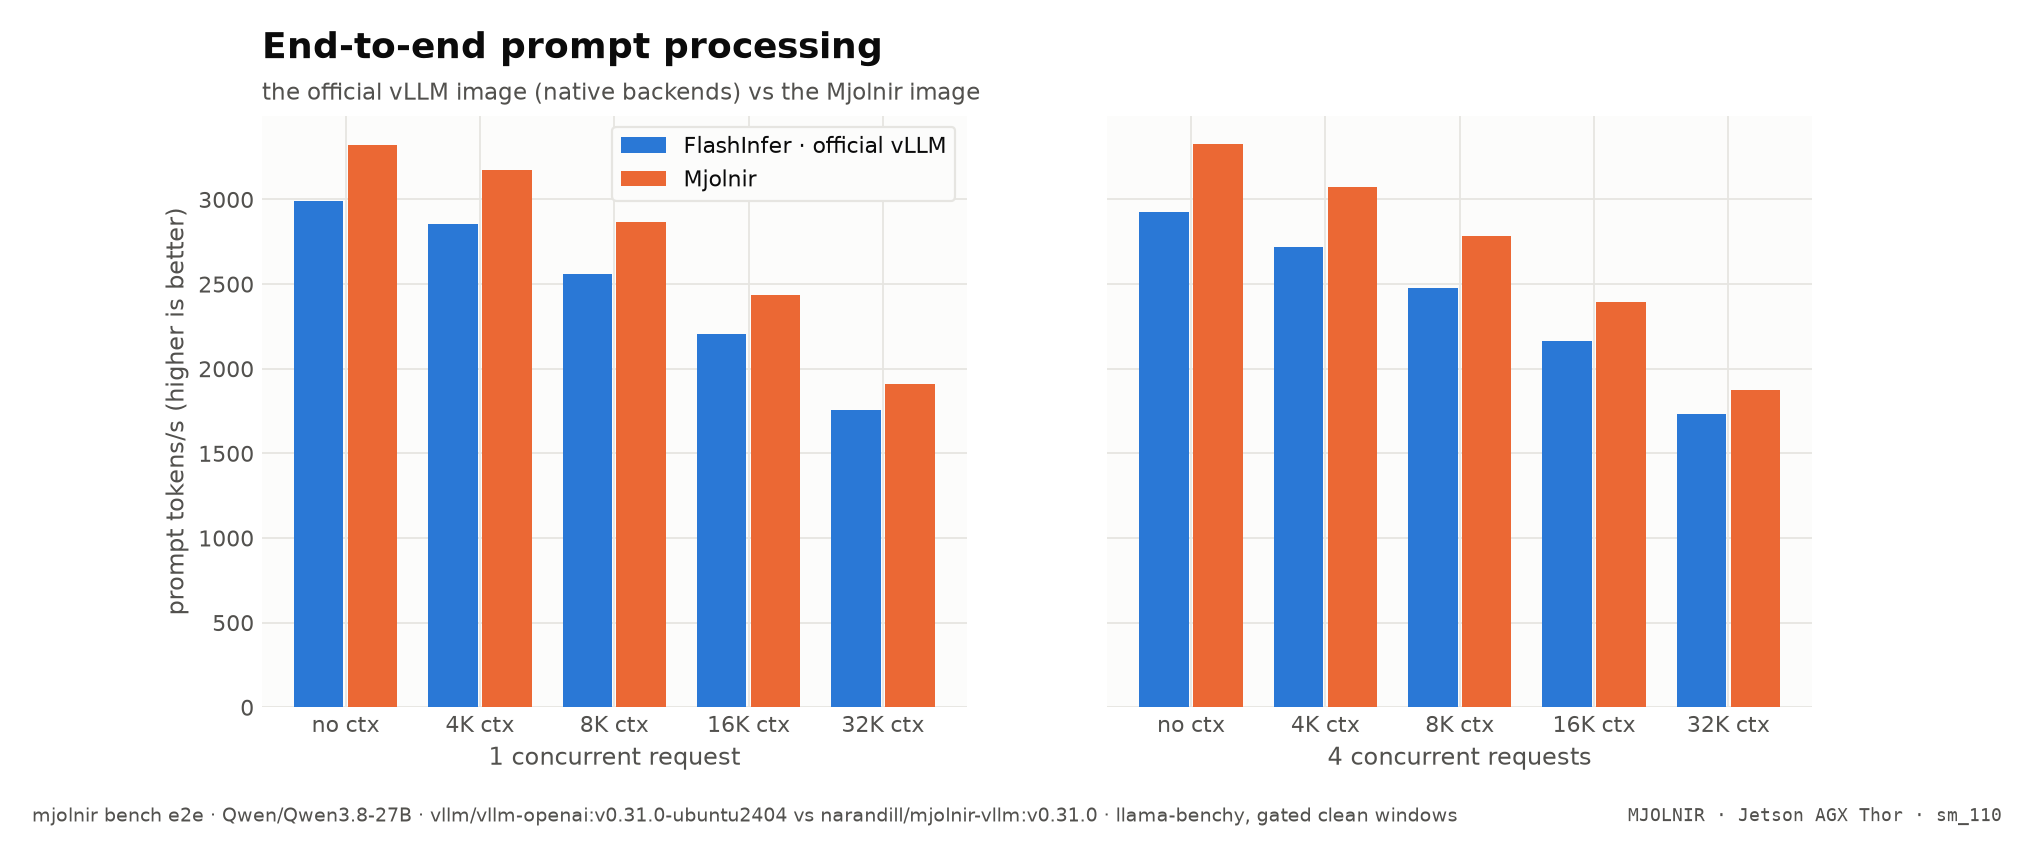
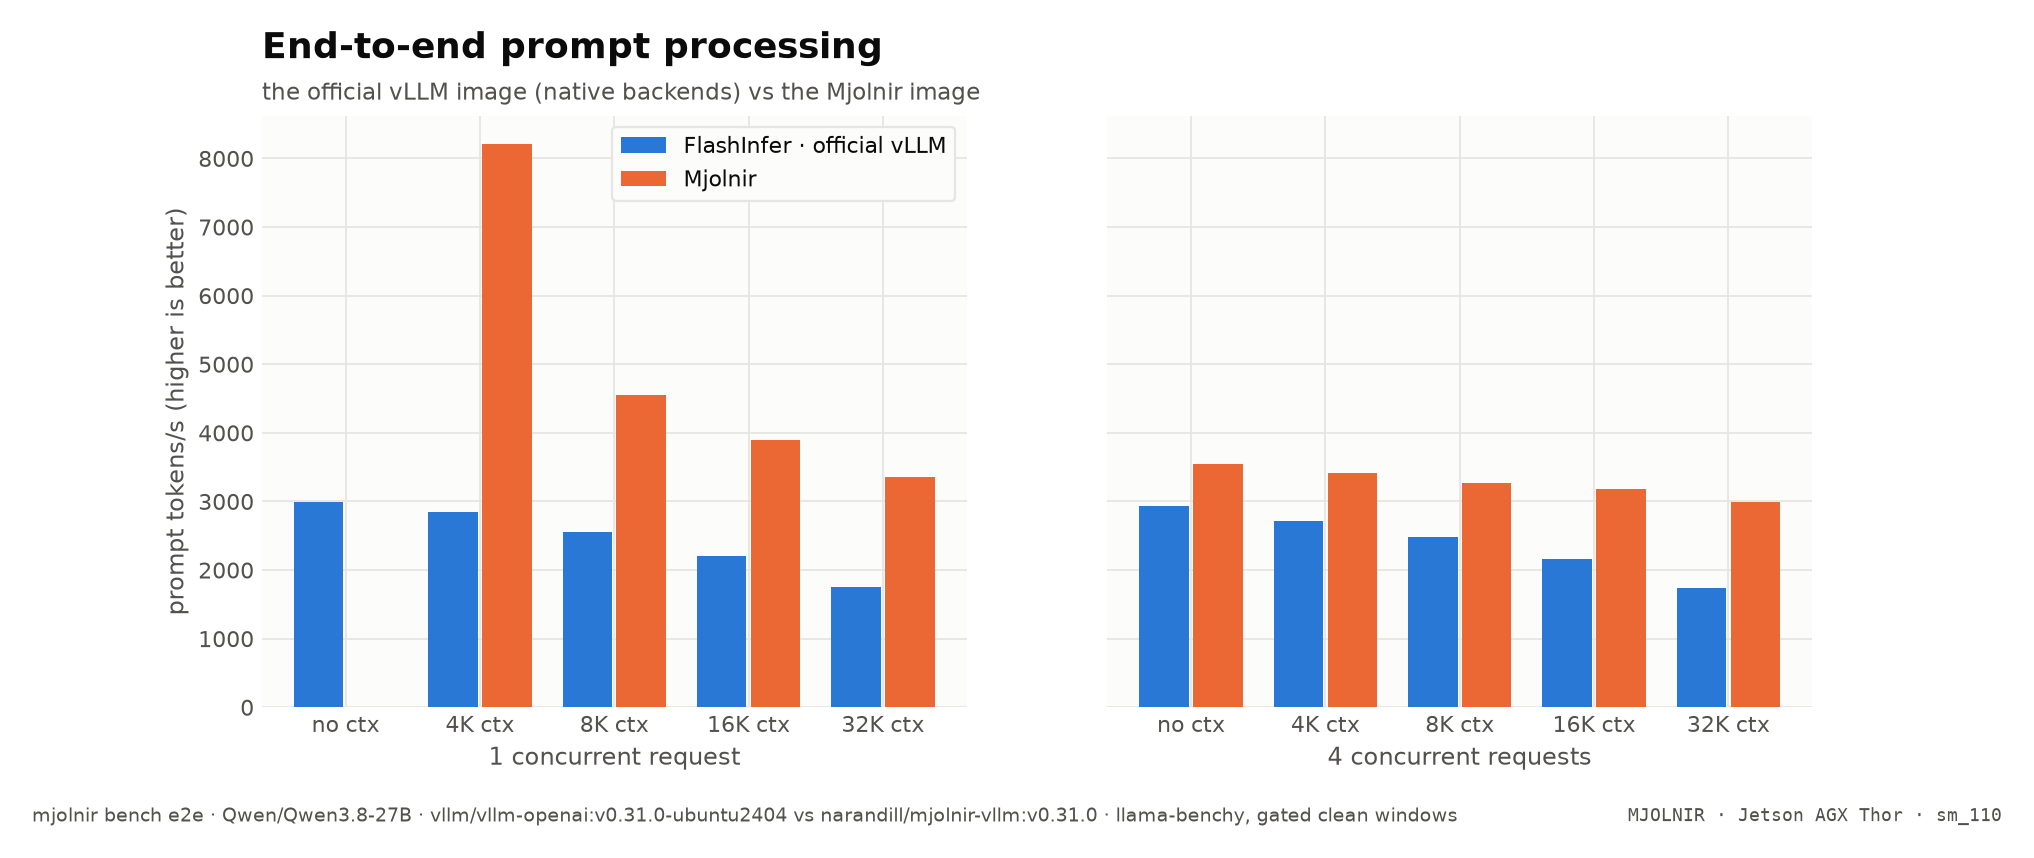
e2e bench results for FA4 as fallback kernel

Changed region(s): [[0.5575, 0.1515, 0.8982, 0.697], [0.0929, 0.1515, 0.2788, 0.8182], [0.2788, 0.2424, 0.4646, 0.697]]

diff --git a/README.md b/README.md
@@ -29,7 +29,7 @@
 
 > *Mjölnir* is Old Norse for "Thor's hammer" — pronounced **"MYOL-nir"**.
 
-**Mjolnir is a paged fp8 decode-attention kernel for the NVIDIA Jetson AGX Thor (`sm_110`)**, written in CuTe DSL on Blackwell's `tcgen05` tensor cores, TMEM and TMA, and shipped as a vLLM attention backend:
+**Mjolnir is a paged fp8 decode-attention kernel for the NVIDIA Jetson AGX Thor (`sm_110`)**, written in CuTe DSL on Blackwell's `tcgen05` tensor cores, `TMEM` and `TMA`, and shipped as a vLLM attention backend:
 
 ```bash
 vllm serve <model> --attention-backend MJOLNIR
@@ -44,7 +44,7 @@ Every generated token re-reads the whole KV cache, so on a 273 GB/s edge GPU **d
 </picture>
 </p>
 
-<p align="center"><sub>End to end on a Jetson AGX Thor, one request at 32K context: decode <b>−1.0%</b>, prefill <b>+8.6%</b>, time to first token <b>19.96 s → 18.39 s</b>, inter-token latency <b>42.0 ms → 42.7 ms</b> vs the official vLLM image — <a href="#official-vllm-image-vs-mjolnir">all cells</a>.</sub></p>
+> <sub>End to end on a Jetson AGX Thor, one request at 32K context: decode <b>−4.8%</b>, prefill <b>+91.3%</b>, time to first token <b>19.96 s → 11.40 s</b>, inter-token latency <b>42.0 ms → 44.5 ms</b> vs the official vLLM image — <a href="#official-vllm-image-vs-mjolnir">all cells</a>.</sub>
 
 <p align="center">
 <picture>
@@ -64,7 +64,7 @@ Every generated token re-reads the whole KV cache, so on a 273 GB/s edge GPU **d
 | correctness vs a bit-faithful emulator | **89 / 89** checks pass |
 
 
-<sub>Every number above is computed from the raw results of `mjolnir verify sweep` (run `20261011-113515`, [`benchmarks/raw/verify/`](benchmarks/raw/verify/)) when this README is rendered — no hand-typed numbers. Hover the [interactive version](https://thor-arena.github.io/mjolnir/) for any point.</sub>
+> <sub>Every number above is computed from the raw results of `mjolnir verify sweep` (run `20261011-113515`, [`benchmarks/raw/verify/`](benchmarks/raw/verify/)) when this README is rendered — no hand-typed numbers. Hover the [interactive version](https://thor-arena.github.io/mjolnir/) for any point.</sub>
 
 ## Quickstart
 
@@ -127,7 +127,7 @@ Measured on a dedicated Thor: a same-run ratio repeats within ±3% between runs,
 | **256K** | 2.83 ms | 4.63 ms | 2.45 ms | **2.07 ms** | $\color{#16a34a}{\mathbf{1.16\times}}$ | $\color{#16a34a}{\mathbf{1.37\times}}$ | $\color{#16a34a}{\mathbf{1.89\times}}$ | $\color{#16a34a}{\mathbf{2.24\times}}$ |
 | geomean |  |  |  |  | $\color{#16a34a}{\mathbf{1.17\times}}$ | $\color{#16a34a}{\mathbf{1.28\times}}$ | $\color{#16a34a}{\mathbf{1.84\times}}$ | $\color{#16a34a}{\mathbf{2.01\times}}$ |
 
-<sub>Bold = fastest at that L. Ratio columns: baseline time ÷ this kernel's time (green = faster beyond noise).</sub>
+> <sub>Bold = fastest at that `L`. Ratio columns: baseline time ÷ this kernel's time (green = faster beyond noise).</sub>
 
 <picture>
   <source media="(prefers-color-scheme: dark)" srcset="assets/benchmarks/kernel-bandwidth-dark.png">
@@ -143,27 +143,27 @@ Native vLLM 0.31.0 — FlashInfer, on the **official** `vllm/vllm-openai` image,
   <img src="assets/benchmarks/e2e-decode.png" alt="End-to-end decode throughput: official vLLM vs Mjolnir" width="100%">
 </picture>
 
-Each cell: official → **Mjolnir** (gain; positive = Mjolnir better, ✅ beyond the ±7% end-to-end noise band — serving runs are noisier than the kernel's same-run ratios).
+> Each cell: official → **Mjolnir** (gain; positive = Mjolnir better, ✅ beyond the ±7% end-to-end noise band — serving runs are noisier than the kernel's same-run ratios).
 
 | context | requests | decode (t/s, ↑) | prefill (t/s, ↑) | TTFT (ms, ↓) | ITL (ms, ↓) |
 |--:|--:|--:|--:|--:|--:|
-| no ctx | 1 | 24.6 → **25.4** (+3.3% 🟰) | 2,992 → **3,324** (+11.1% ✅) | 819 → **752** (+8.9% ✅) | 40.9 → **39.5** (+3.5% 🟰) |
-| 4K | 1 | 25.6 → **23.2** (−9.2% 🔻) | 2,852 → **3,173** (+11.3% ✅) | 2,289 → **2,070** (+10.6% ✅) | 39.4 → **43.3** (−9.2% 🔻) |
-| 8K | 1 | 22.9 → **24.7** (+7.6% ✅) | 2,559 → **2,866** (+12.0% ✅) | 4,136 → **3,706** (+11.6% ✅) | 44.1 → **40.6** (+8.7% ✅) |
-| 16K | 1 | 23.5 → **25.3** (+7.6% ✅) | 2,203 → **2,435** (+10.5% ✅) | 8,501 → **7,701** (+10.4% ✅) | 43.3 → **39.6** (+9.3% ✅) |
-| 32K | 1 | 23.9 → **23.6** (−1.0% 🟰) | 1,756 → **1,907** (+8.6% ✅) | 19,960 → **18,387** (+8.6% ✅) | 42.0 → **42.7** (−1.7% 🟰) |
-| no ctx | 2 | 44.3 → **48.1** (+8.7% ✅) | 2,724 → **3,177** (+16.6% ✅) | 1,443 → **1,161** (+24.3% ✅) | 42.7 → **39.8** (+7.4% ✅) |
-| 4K | 2 | 45.1 → **46.6** (+3.4% 🟰) | 2,746 → **3,119** (+13.6% ✅) | 4,415 → **3,845** (+14.8% ✅) | 41.5 → **40.7** (+2.1% 🟰) |
-| 8K | 2 | 43.9 → **46.2** (+5.3% 🟰) | 2,504 → **2,821** (+12.7% ✅) | 8,118 → **7,104** (+14.3% ✅) | 43.1 → **41.0** (+5.2% 🟰) |
-| 16K | 2 | 42.4 → **43.5** (+2.6% 🟰) | 2,189 → **2,423** (+10.7% ✅) | 16,781 → **15,037** (+11.6% ✅) | 44.8 → **42.6** (+5.3% 🟰) |
-| 32K | 2 | 33.7 → **29.8** (−11.6% 🔻) | 1,748 → **1,899** (+8.7% ✅) | 39,137 → **35,213** (+11.1% ✅) | 50.5 → **54.5** (−7.4% 🔻) |
-| no ctx | 4 | 85.3 → **81.9** (−4.0% 🟰) | 2,927 → **3,327** (+13.7% ✅) | 2,767 → **2,392** (+15.7% ✅) | 42.6 → **43.3** (−1.6% 🟰) |
-| 4K | 4 | 82.9 → **78.6** (−5.2% 🟰) | 2,717 → **3,075** (+13.2% ✅) | 9,012 → **7,822** (+15.2% ✅) | 44.7 → **44.2** (+1.2% 🟰) |
-| 8K | 4 | 70.2 → **61.3** (−12.6% 🔻) | 2,478 → **2,784** (+12.4% ✅) | 16,208 → **13,918** (+16.5% ✅) | 47.3 → **49.4** (−4.3% 🟰) |
-| 16K | 4 | 41.3 → **35.8** (−13.5% 🔻) | 2,163 → **2,395** (+10.7% ✅) | 32,462 → **27,998** (+15.9% ✅) | 60.2 → **66.4** (−9.4% 🔻) |
-| 32K | 4 | 11.5 → **11.4** (−0.9% 🟰) | 1,733 → **1,877** (+8.3% ✅) | 65,974 → **58,144** (+13.5% ✅) | 161.8 → **172.0** (−5.9% 🟰) |
+| no ctx | 1 | 24.6 → **24.0** (−2.6% 🟰) | — | 819 → **740** (+10.6% ✅) | 40.9 → **42.4** (−3.5% 🟰) |
+| 4K | 1 | 25.6 → **24.3** (−5.0% 🟰) | 2,852 → **8,210** (+187.8% ✅) | 2,289 → **1,788** (+28.0% ✅) | 39.4 → **41.4** (−4.8% 🟰) |
+| 8K | 1 | 22.9 → **23.1** (+0.9% 🟰) | 2,559 → **4,545** (+77.6% ✅) | 4,136 → **3,292** (+25.6% ✅) | 44.1 → **43.4** (+1.6% 🟰) |
+| 16K | 1 | 23.5 → **23.6** (+0.5% 🟰) | 2,203 → **3,895** (+76.8% ✅) | 8,501 → **5,771** (+47.3% ✅) | 43.3 → **42.6** (+1.7% 🟰) |
+| 32K | 1 | 23.9 → **22.7** (−4.8% 🟰) | 1,756 → **3,359** (+91.3% ✅) | 19,960 → **11,405** (+75.0% ✅) | 42.0 → **44.5** (−5.6% 🟰) |
+| no ctx | 2 | 44.3 → **45.9** (+3.7% 🟰) | 2,724 → **3,245** (+19.1% ✅) | 1,443 → **1,138** (+26.9% ✅) | 42.7 → **40.6** (+5.2% 🟰) |
+| 4K | 2 | 45.1 → **41.7** (−7.4% 🔻) | 2,746 → **3,502** (+27.5% ✅) | 4,415 → **3,384** (+30.4% ✅) | 41.5 → **44.8** (−7.3% 🔻) |
+| 8K | 2 | 43.9 → **43.5** (−0.8% 🟰) | 2,504 → **3,292** (+31.5% ✅) | 8,118 → **6,083** (+33.5% ✅) | 43.1 → **42.9** (+0.5% 🟰) |
+| 16K | 2 | 42.4 → **43.5** (+2.7% 🟰) | 2,189 → **3,262** (+49.0% ✅) | 16,781 → **11,149** (+50.5% ✅) | 44.8 → **43.3** (+3.6% 🟰) |
+| 32K | 2 | 33.7 → **35.6** (+5.6% 🟰) | 1,748 → **3,071** (+75.7% ✅) | 39,137 → **22,047** (+77.5% ✅) | 50.5 → **48.9** (+3.3% 🟰) |
+| no ctx | 4 | 85.3 → **78.4** (−8.1% 🔻) | 2,927 → **3,539** (+20.9% ✅) | 2,767 → **2,209** (+25.2% ✅) | 42.6 → **45.0** (−5.3% 🟰) |
+| 4K | 4 | 82.9 → **73.8** (−11.1% 🔻) | 2,717 → **3,412** (+25.6% ✅) | 9,012 → **7,011** (+28.5% ✅) | 44.7 → **47.3** (−5.4% 🟰) |
+| 8K | 4 | 70.2 → **62.1** (−11.6% 🔻) | 2,478 → **3,270** (+32.0% ✅) | 16,208 → **11,895** (+36.3% ✅) | 47.3 → **49.5** (−4.4% 🟰) |
+| 16K | 4 | 41.3 → **42.6** (+3.0% 🟰) | 2,163 → **3,188** (+47.4% ✅) | 32,462 → **21,161** (+53.4% ✅) | 60.2 → **61.7** (−2.4% 🟰) |
+| 32K | 4 | 11.5 → **17.0** (+48.0% ✅) | 1,733 → **2,990** (+72.6% ✅) | 65,974 → **37,300** (+76.9% ✅) | 161.8 → **121.7** (+33.0% ✅) |
 
-<sub>official: `vllm/vllm-openai:v0.31.0-ubuntu2404 · NVFP4 (vLLM 0.31.0 (official image))` · Mjolnir: `narandill/mjolnir-vllm:v0.31.0 · NVFP4_MJOLNIR (Mjolnir)` · TTFT = time to first token; ITL = inter-token latency (1000 / per-request decode rate) · from [`benchmarks/history.jsonl`](benchmarks/history.jsonl).</sub>
+> <sub>official: `vllm/vllm-openai:v0.31.0-ubuntu2404 · NVFP4 (vLLM 0.31.0 (official image))` · Mjolnir: `narandill/mjolnir-vllm:v0.31.0 · NVFP4_MJOLNIR (Mjolnir)` · TTFT = time to first token; ITL = inter-token latency (1000 / per-request decode rate) · from [`benchmarks/history.jsonl`](benchmarks/history.jsonl).</sub>
 
 ## How the kernel works
 
@@ -171,7 +171,7 @@ A decode step is one query token per sequence against the whole KV cache: at 64K
 
 | | design choice | why on Thor |
 |---|---|---|
-| ⚙ | **Warp-specialized tcgen05 pipeline** — a TMA warp streams K/V pages through an SMEM ring, an MMA warp runs `S = QKᵀ` and `O += PV` on the tensor cores into TMEM, softmax warpgroups read S from TMEM and write P | the tensor cores and TMEM keep scores off the register file; the TMA engine walks the page table so the SMs never issue loads |
+| ⚙ | **Warp-specialized `tcgen05` pipeline** — a TMA warp streams K/V pages through an SMEM ring, an MMA warp runs `S = QKᵀ` and `O += PV` on the tensor cores into TMEM, softmax warpgroups read S from TMEM and write P | the tensor cores and TMEM keep scores off the register file; the TMA engine walks the page table so the SMs never issue loads |
 | 📐 | **Occupancy-pinned split-KV** — every step fills exactly 2 CTAs × 20 SMs; long sequences split into chunks, a small reduction kernel merges them | one full wave at every L; a fixed padded grid replays under full CUDA graphs |
 | 🧊 | **fp8 everything** — Q quantized per (sequence, KV head) on the fly, fp8 KV, P stored as e4m3 | one MMA kind, no conversion warps, half the KV bytes of bf16 |
 | 🗂 | **Head-major (HND) pages** — each KV head's page is one contiguous block | longer DRAM bursts per TMA box: [hndsweep](docs/kernel/hndsweep.md) |
@@ -225,7 +225,7 @@ mjolnir autoresearch init|run|ledger    # the autonomous kernel-research loop
 mjolnir gate | hw | litellm | perses    # clean-window gate, host setup, side stacks
 ```
 
-Every `verify` stage defaults to L = 128 4K 8K 16K 32K 64K 128K 256K; `--ls`, `--iters`, `--image`, `--dry-run` work everywhere.
+Every `verify` stage defaults to `L = 128 4K 8K 16K 32K 64K 128K 256K`; `--ls`, `--iters`, `--image`, `--dry-run` work everywhere.
 
 ## Contributing
 
